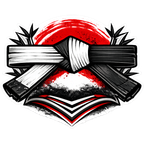
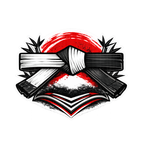
icone white

diff --git a/scripts/generate-pwa-icons.js b/scripts/generate-pwa-icons.js
@@ -2,7 +2,7 @@ const sharp = require('sharp');
 const fs = require('fs');
 const path = require('path');
 
-const sourceIcon = path.join(__dirname, '..', 'src', 'assets', 'images', 'icon_white.png');
+const sourceIcon = path.join(__dirname, '..', 'src', 'assets', 'images', 'icon_white2.png');
 const publicDir = path.join(__dirname, '..', 'public');
 
 // Vérifier que le dossier public existe
